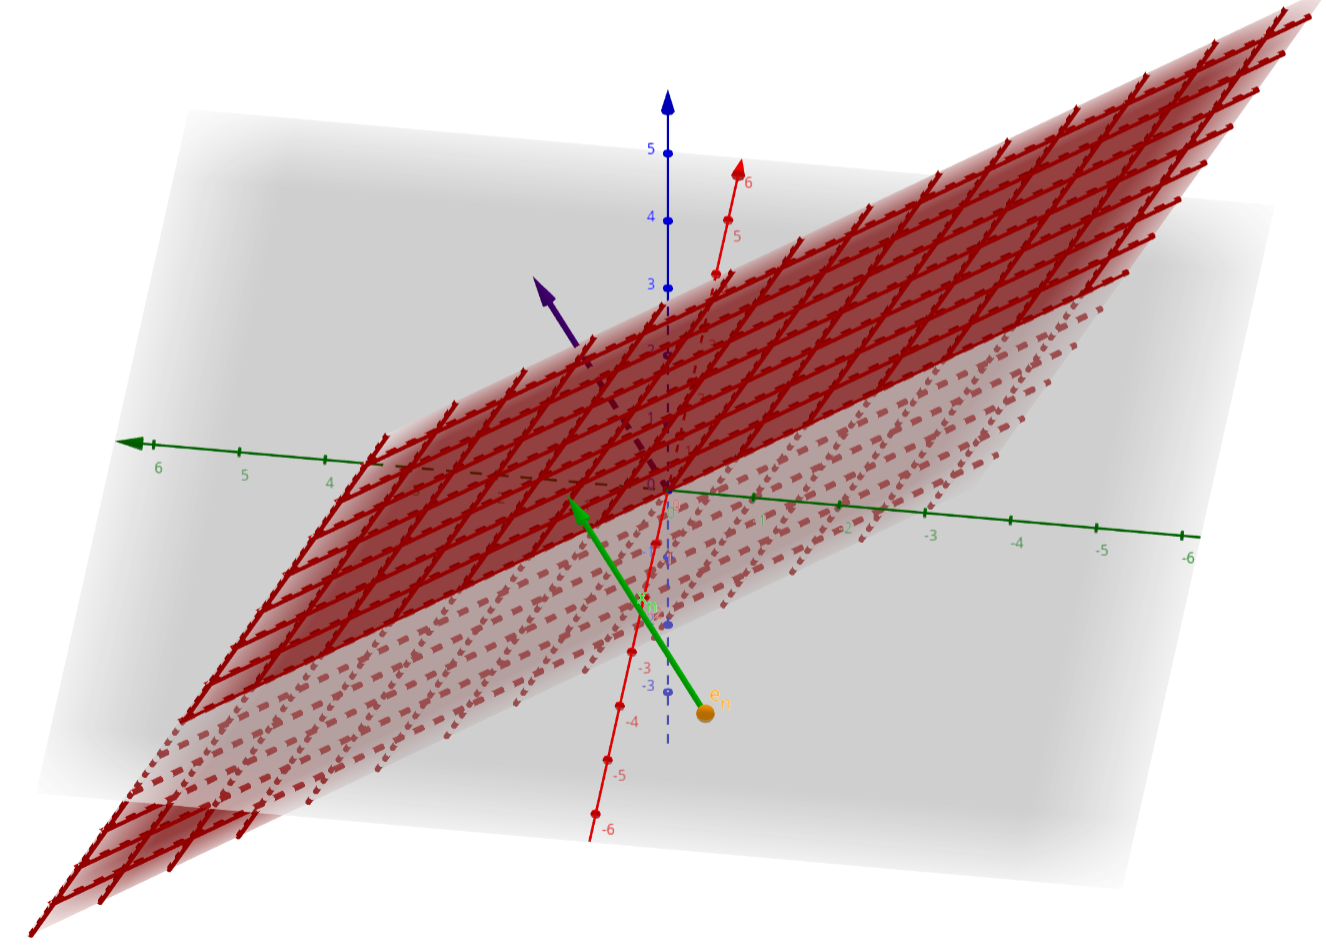
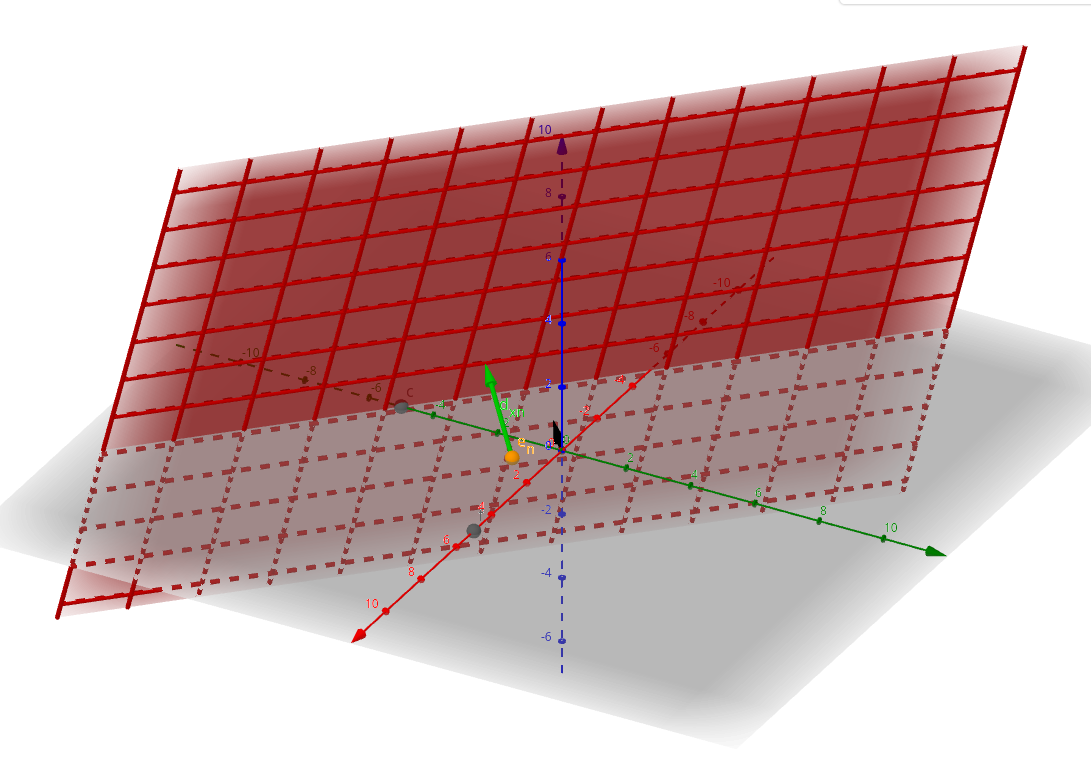
Added alot to the report.

diff --git a/Report/Report.md b/Report/Report.md
@@ -28,20 +28,30 @@ For a two dimensional array, the idea is the same, except instead of creating a 
 
 ![3D Plane Visualization](figures/2DPhasedArrayMathVisualization.png)
 
-If the desired direction is defined in terms of  ($\theta$, $\phi$). Then a plane going through $(0,0,0)$ is defined as:
-$$ 0 = sin(\theta)cos(\phi)x + sin(\theta)sin(\phi)y + cos(\theta) z$$
+If the desired direction is defined in terms of  ($\theta$, $\phi$). Then a normal vector to that plane is:
+$$ N = <x_n, \ y_n, \ z_n> = <sin(\theta)cos(\phi), \ sin(\theta)sin(\phi), \ cos(\theta)>$$
 
-If there is an emitter at position $p_n=(p_{xn}, p_{yn}, p_{zn})$ Therefore:
-$$|x_n| = |sin(\theta)cos(\phi)p_{xn} + sin(\theta)sin(\phi)p_{yn} + cos(\theta)p_{zn}|$$
-The phase delay can be calcualted as 
-$$\Delta\theta = \frac{2\pi |x_n|}{\lambda}$$
+In reality, the plane must pass through the emitted that must emit last. This will always be one of the corners of the array. If the corner emitted has coordinates $c=(x_c, y_c, 0)$, then the plane can be defined as
 
-I have made a [visualization of this setup available here](https://www.geogebra.org/3d/fzej5fvj).
+$$ x_nx+ y_ny + z_nz + D = 0$$
+Where:
+$$ D = -(x_nx_c+y_ny_c) $$
+
+The distance from any point $(x_p, y_p, z_p)$ to this plane is thus:
+$$ d_p = |x_nx_p+y_ny_p+z_nz_p+D|$$
+
+It is also useful to define the farthest away corner point $f=(x_f, y_f, z_f)$. Since this emitted needs to be activated first is gets a phase shift of zero. Its distance to the plane is defined as $d_f$. Thus, the time phase shift is:
+$$t_{phase \ shift} = d_f - t_e$$
+Therefore the angular phase shift $\alpha$ is 
+$$\alpha = \frac{2\pi t_{phase \ shift}}{\lambda} $$
+
+
+I have made a [visualization of this setup available here](https://www.geogebra.org/m/fzej5fvj).
 
 # Electronics Design
 
 ## Block Diagram
-I followed the basic hardware design of another [ultrasonic array](https://doi.org/10.3390/app11072981), this one designed for levatation. They also had limited IO, on the main controller (in this groups case, an FPGA), so devised a system to get ardound this they use a bunch of row addressable shift registers. 
+I followed the basic hardware design of another [ultrasonic array](https://doi.org/10.3390/app11072981), this one designed for levitation. They also had limited IO, on the main controller (in this groups case, an FPGA), so devised a system to get around this they use a bunch of row addressable shift registers. 
 ![Block Diagram](figures/UltrasonicPhasedArrayBlockDiagram.svg)
 Note that only one row is show, but in the actual design there are 6 rows, each with its oen $R/\bar{W}$ Signal.
 
@@ -55,23 +65,56 @@ Each shift register has a shifted version of
 stored inside it. 
 ### Table of Examples
 
-| Phase Shift     | Shift Register Contents |
-| ----------- | ----------- |
+| Phase Shift      | Shift Register Contents                                            |
+| ---------------- | ------------------------------------------------------------------ |
 | $\frac{\pi}{32}$ | `0111111111111111111111111111111110000000000000000000000000000000` |
-| $\pi$   | `0000000000000000000000000000000011111111111111111111111111111111` |
+| $\pi$            | `0000000000000000000000000000000011111111111111111111111111111111` |
 | $\frac{3\pi}{2}$ | `1111111111111111000000000000000000000000000000001111111111111111` |
 
 ## Part Choices
 
 Based on the paper I used [TC4427](https://ww1.microchip.com/downloads/en/DeviceDoc/20001422G.pdf) MOSFET drivers. To allow me to get up to $\frac{\pi}{32}$ I wanted to use 64 bit shift registers. I wanted to be able to prototype on a breadboard, so I used the the [CD4517B](https://www.ti.com/lit/ds/symlink/cd4517b.pdf?ts=1676841314674&ref_url=https%253A%252F%252Fwww.google.com%252F), The only generally available through-hole 64 bit shift register. I chose the [SNHC175](https://www.ti.com/product/SN54HC157) due to its low price, and wide availability in a variety of form factors.
 
+## Ultrasonic Emitted
+TODO
+
 ### RP2040
 I choose to use the RP2040 microcontroller for this project. This is primarily due to its low cost (~$1), and relatively high speed. The RP2040 also has PIO blocks that allow for clock cycle precise timing, which is essential to my hardware design.
 
-##
+### RP2040 PIOs
+The RP2040 has 2 programmable IO blocks (PIOs) each of which has four state machines (SMs). These are essentially tiny coprocessors that are terrible for general purpose computing, but designed for time-sensitive IO operations. These state machines run a limited [ISA consisting of 9 instructions](https://datasheets.raspberrypi.com/rp2040/rp2040-datasheet.pdf#instructionSet). Importantly, each instruction takes exactly one clock cycle, and the clock frequency can be set using a divider of the 150MHz system clock. 
+
+To get an ultrasonic response, I need to send out a series of pulses and then stop. While it is relatively easy to send out a continuous series of pulses using clock dividers or the PWM peripheral, the best wat I found to send out a set series of precisely timed pulses was using a PIO SM. To achieve the correct timing, the PIO frequency is set to:
+
+$$f_{pio} = f_{ultrasonic}*n_{steps}*n_{instructions \ per \ step}$$
+
+Here, $n_{steps}$ is the number of bits of the shift register (64), and $n_{instructions \ per \ step}$ is 4 due to [my pio code](https://github.com/abezukor/PhasedArrayUltrasonic/blob/main/3DArray/Software/pulses_pio/pulses.pio#L14). ( The `[1]` indicates one no-op after the instruction). Therefore my PIO clock frequency is:
+
+$$f_{pio} = 40kHz*64*4=10.24MHz$$
 
 
+To create a set number of pulses, as opposed to a stream of them, my PIO code waits for an input from a hardware fifo, then loops that many times generating a pulse each time. Once its done, it generates an interrupt to let the main code know the pulses have been sent. Afterwards, it waits for another number on the hardware fifo. 
 
+# First Prototype
+![First Prototype](figures/FirstPrototype.jpg)
+As a first prototype, I built one row of my circuit on a breadboard. This allowed me to diagnose the circuit and make changes easily. An oscilloscope trace of pulse bounced back is below. I was successfully able to get a noticeable difference when directing the pulse at an angle verses straight ahead. 
+
+![1 Row Return Ocilliscope Trace](figures/OneRowOcilliscopeTrace.png)
+
+# Final Design
+After my first prototype, I designed a PCB for one row, with the idea that 6 of them could be combined together to make a 6x6 array. I changed to SMD parts where applicable and ordered them from JLCPCB. KiCAD files are included in the provided files. Unfortunately I made a mistake in my initial PCB order, where the inputs to the column2 and column 6 muxes were swapped, so the PCBs had to be modified to account for this. The included schematic and layout have been updated to fix this issue.
+![Front of the PCB](figures/PCBFront.jpg)
+![Back of the PCB](figures/PCBBack.jpg)
+
+## PCB Verification
+To verify that the PCB functions as intended I wrote code that sets each emitter to a phase delay of 2 from the last emitted. Then measured the output of each by using the digital probes on an oscilloscope. Once the issues were solved the traces looked like the following (Showing columns 2, 3, 4 on rows 1, 3, 4, 5):
+
+![Ocilliscope showing phase shift](figures/PCBPhaseShiftWorking.png)
+
+The phase delay was also measured to verify that everything was functioning properly.
+# Outcome
+# Code and KiCAD
+All the code and KiCAD files are [on this github](https://github.com/abezukor/PhasedArrayUltrasonic).
 # References
 - Chetvorno, CC0, via Wikimedia Commons https://commons.wikimedia.org/wiki/File:Phased_array_animation_with_arrow_10frames_371x400px_100ms.gif
 - https://www.radartutorial.eu/06.antennas/Phased%20Array%20Antenna.en.html
